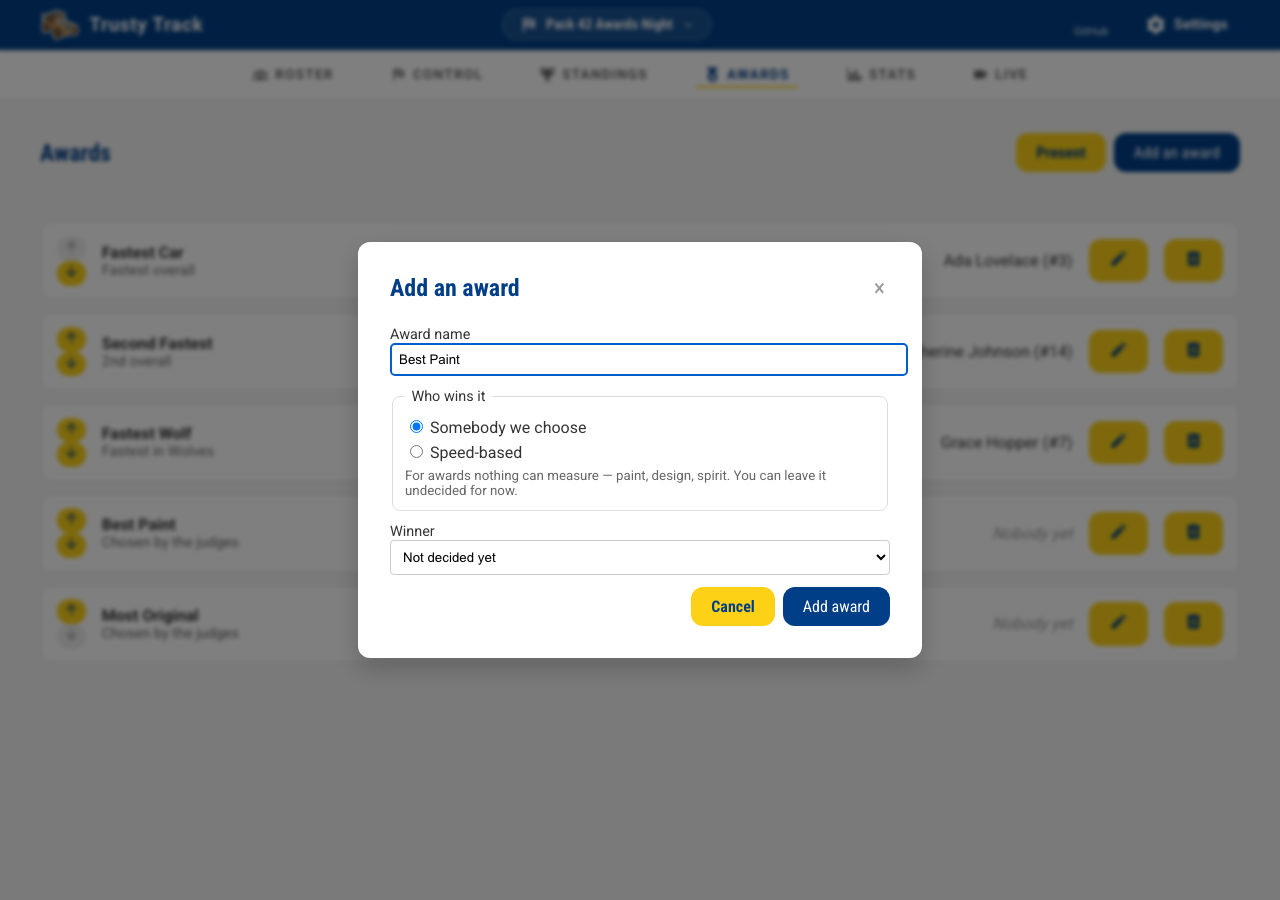
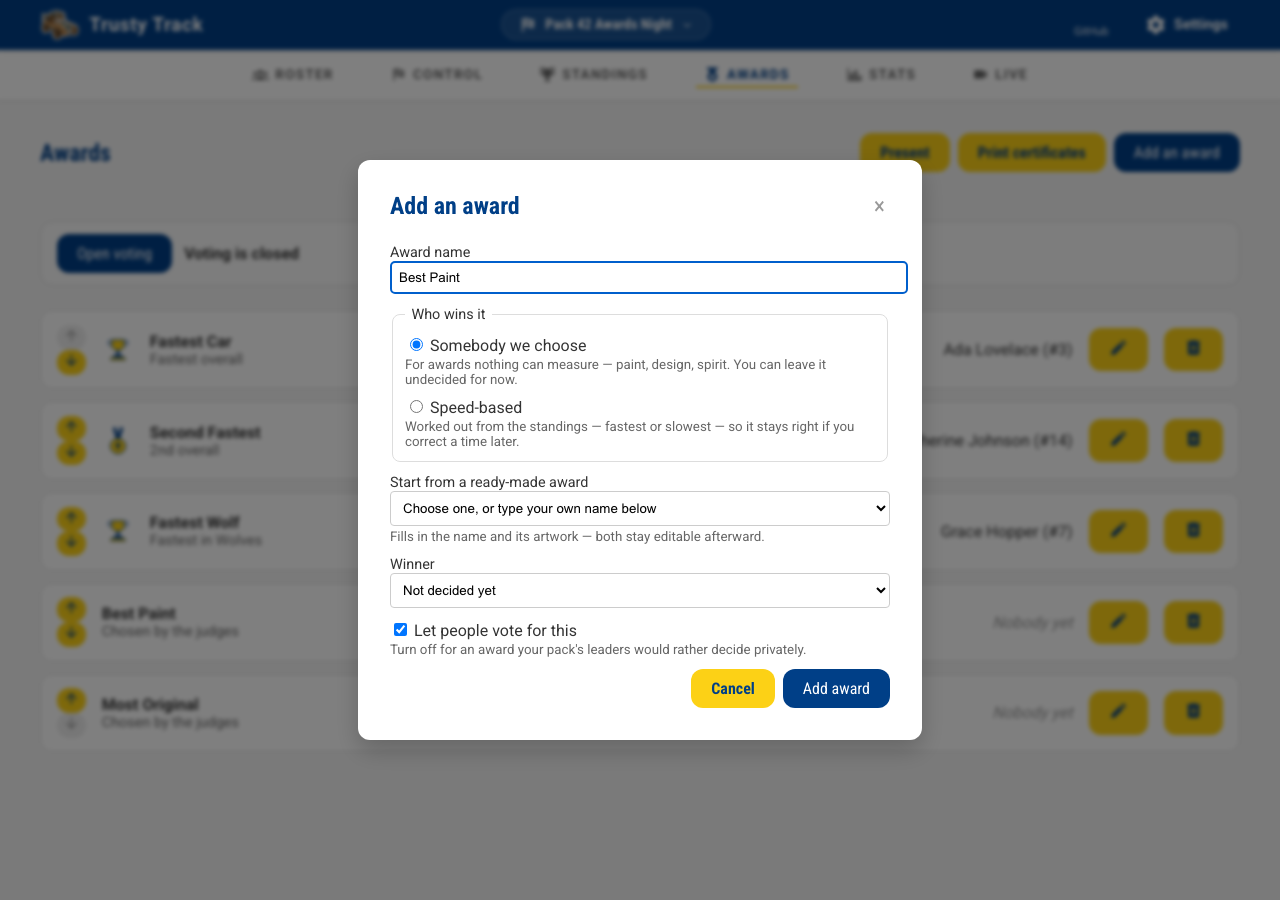
docs: screenshot the award template picker and the certificate page (#396)
PR #378 (issue #306) added the ready-made superlative picker on AwardForm
and the printable certificates page, but shipped them without running the
Playwright screenshot suite, so both landed documented and unillustrated.

Extends screenshot-awards.spec.ts to photograph both: choosing "Most
Aerodynamic" from the template dropdown and seeing the award name fill in
(06-award-template-picker.png), and the certificates page for a race with
three decided speed awards (trophy/medal artwork) and two still-undecided
judged awards (blank line) — 07-certificates.png. Both are linked from
docs/awards.md; the certificates image is also linked from docs/printables.md,
matching that page's existing per-document screenshot pattern.

Running the whole screenshot suite once, as CLAUDE.md requires before
committing, also regenerated 01-awards-list.png, 02-speed-award-form.png and
03-judged-award-form.png with real content the previously-checked-in images
were missing (the Print certificates/Present buttons, the voting bar, the
per-award artwork icons, and the votable checkbox from #395) — those are
committed too since they belong to this same spec. 04-ceremony-slide.png and
everything outside the awards/ folder is left as-is: the ceremony slide's
regenerated version exposed a real, pre-existing bug (the award artwork's
blue outline is invisible against the ceremony's identical navy background),
which is out of scope here and flagged separately; the rest of the site's
[…]

diff --git a/frontend/e2e/docs/screenshot-awards.spec.ts b/frontend/e2e/docs/screenshot-awards.spec.ts
@@ -220,4 +220,39 @@ test('screenshot the awards screens', async ({ page }) => {
     await expect(page.getByText(/Still to be decided/i)).toBeVisible();
     await page.waitForTimeout(300);
     await page.screenshot({ path: path.join(SCREENSHOT_DIR, '05-ceremony-undecided.png') });
+
+    // The ready-made superlative picker (#306), on a fresh judged award —
+    // opened new rather than reusing the cancelled one above, since Modal
+    // unmounts its contents on close and a reopened AwardForm starts blank.
+    // Choosing one just writes an ordinary name (and, invisibly here, an
+    // artwork key) into the draft; both stay editable free-text fields
+    // afterward, which is what makes the filled name worth photographing
+    // rather than the dropdown's own options.
+    await page.setViewportSize({ width: 1280, height: 900 });
+    await page.goto(`/race/${raceId}/awards`);
+    await expect(page.getByText('Fastest Car')).toBeVisible();
+    await page.getByRole('button', { name: 'Add an award' }).click();
+    await expect(page.getByLabel('Award name')).toBeVisible();
+    await page
+        .getByLabel('Start from a ready-made award')
+        .selectOption({ label: 'Most Aerodynamic' });
+    await expect(page.getByLabel('Award name')).toHaveValue('Most Aerodynamic');
+    await page.waitForTimeout(300);
+    await page.screenshot({ path: path.join(SCREENSHOT_DIR, '06-award-template-picker.png') });
+    await page.getByRole('button', { name: 'Cancel' }).click();
+
+    // The printable certificates (#306): one per award, in the ceremony's own
+    // running order. `fullPage` rather than a viewport crop, because the
+    // point of this picture is the variety down the stack — the speed awards
+    // carry the trophy or medal artwork their rule computed, and the two
+    // judged awards are still undecided, so each prints with a blank line
+    // rather than being left out of the batch.
+    await page.goto(`/race/${raceId}/print/certificates`);
+    await expect(page.getByTestId('certificates')).toBeVisible();
+    await expect(page.getByText('Fastest Car')).toBeVisible();
+    await page.waitForLoadState('networkidle');
+    await page.screenshot({
+        path: path.join(SCREENSHOT_DIR, '07-certificates.png'),
+        fullPage: true,
+    });
 });

diff --git a/docs/awards.md b/docs/awards.md
@@ -80,6 +80,8 @@ It has no effect on a speed-based award. Those get their artwork worked out
 automatically from what they are — first place, second and third, or the
 slowest car — with nothing to choose.
 
+![Choosing "Most Aerodynamic" from the ready-made list fills in the award name — the field stays editable afterward](assets/screenshots/awards/06-award-template-picker.png)
+
 ## Letting people vote
 
 For a judged award, you can let people vote from their own phones instead of
@@ -178,6 +180,8 @@ blank line to write a name on, rather than being left out of the batch; a
 ready-made superlative or a speed award prints its artwork, and anything
 else prints plain. More in
 [Printed documents](reference/printing.md#certificates).
+
+![Five certificates: a trophy or medal on each speed award, and a blank line where a judged award's winner has not been decided yet](assets/screenshots/awards/07-certificates.png)
 
 ## What awards do not do
 

diff --git a/docs/printables.md b/docs/printables.md
@@ -158,6 +158,8 @@ take-home, where the results sheet is the noticeboard's copy.
 
 **Race → Awards → Print certificates.**
 
+![Five printed certificates: trophy and medal artwork on the speed awards, blank lines on the two not yet decided](assets/screenshots/awards/07-certificates.png)
+
 An award nobody has decided yet still gets a certificate, with a blank line
 to write a name on rather than being left out of the batch — most awards
 stay undecided right up until the ceremony, and reprinting the whole run the
